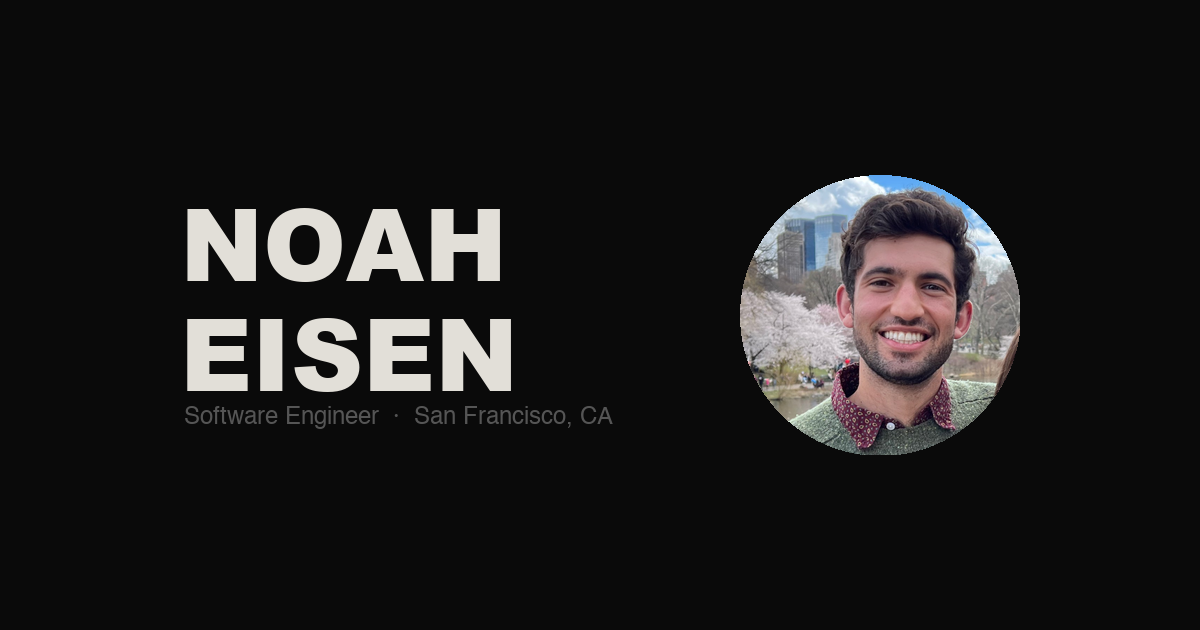
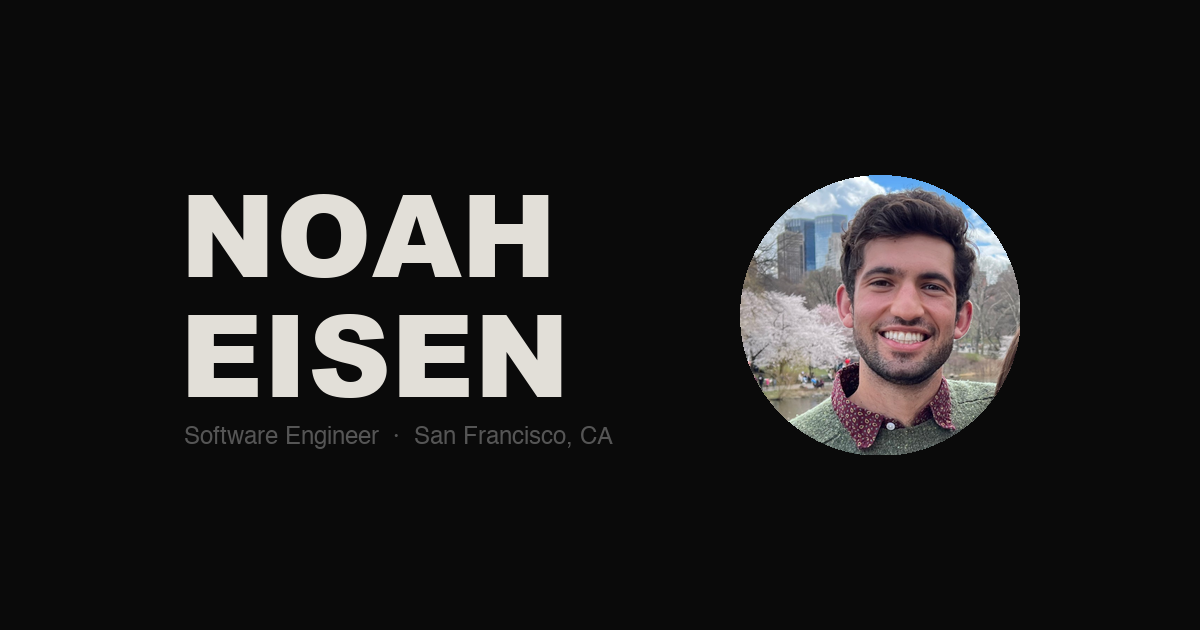
Add OG image generator script and update OG image

Changed region(s): [[0.1542, 0.4825, 0.5242, 0.7238], [0.1542, 0.3016, 0.4625, 0.4524]]

diff --git a/scripts/generate-og-image/generate_og_image.py b/scripts/generate-og-image/generate_og_image.py
@@ -1,0 +1,57 @@
+"""Generate the Open Graph preview image for the website."""
+
+from PIL import Image, ImageDraw, ImageFont
+from pathlib import Path
+
+REPO_ROOT = Path(__file__).resolve().parent.parent.parent
+OUTPUT_PATH = REPO_ROOT / "public" / "images" / "og-image.png"
+PHOTO_PATH = REPO_ROOT / "public" / "images" / "profile.jpg"
+
+W, H = 1200, 630
+BG_COLOR = (10, 10, 10)
+TEXT_COLOR = (226, 223, 216)
+SUB_COLOR = (85, 85, 85)
+
+
+def generate():
+    img = Image.new("RGB", (W, H), BG_COLOR)
+    draw = ImageDraw.Draw(img)
+
+    try:
+        name_font = ImageFont.truetype("/System/Library/Fonts/Supplemental/Arial Black.ttf", 115)
+    except OSError:
+        name_font = ImageFont.load_default()
+
+    try:
+        sub_font = ImageFont.truetype("/System/Library/Fonts/Helvetica.ttc", 24)
+    except OSError:
+        sub_font = ImageFont.load_default()
+
+    # Name
+    draw.text((180, 150), "NOAH", fill=TEXT_COLOR, font=name_font)
+    draw.text((180, 270), "EISEN", fill=TEXT_COLOR, font=name_font)
+
+    # Subtitle
+    draw.text((184, 425), "Software Engineer  ·  San Francisco, CA", fill=SUB_COLOR, font=sub_font)
+
+    # Circular profile photo
+    photo = Image.open(PHOTO_PATH)
+    size = min(photo.size)
+    left = (photo.width - size) // 2
+    top = (photo.height - size) // 2
+    photo = photo.crop((left, top, left + size, top + size))
+
+    circle_size = 280
+    photo = photo.resize((circle_size, circle_size), Image.LANCZOS)
+
+    mask = Image.new("L", (circle_size, circle_size), 0)
+    ImageDraw.Draw(mask).ellipse((0, 0, circle_size, circle_size), fill=255)
+
+    img.paste(photo, (740, (H - circle_size) // 2), mask)
+
+    img.save(OUTPUT_PATH, "PNG")
+    print(f"Saved OG image to {OUTPUT_PATH}")
+
+
+if __name__ == "__main__":
+    generate()
